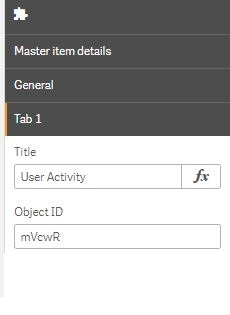
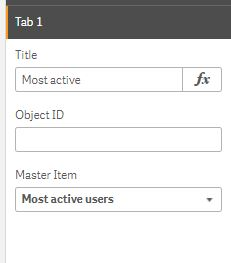
Adding to README.md the information about the new feature

diff --git a/README.md b/README.md
@@ -3,17 +3,23 @@ The Tabbed Container is a Qlik Extension that groups Sense objects in a containe
 
 ![Tabbed-Container-Extension](assets/img/extension_overview.JPG)
 
-It takes a maximum of 5 pairs (title, objectId) as the input that is used to display the visualization. The tab displays the text within the "title" input and the body of the container displays the object with the corresponding ID.
+The extension can display a maximum of 5 tabs, having each tab its own title -which is displayed in the navigation button- and its own visualization.
+In order to add one of your visualizations to a given tab, go into edit mode and select the tab to which you want to add the visualization. Then, you can select a preexisting  visualization using either one of the following methods:
 
-Additionally, the style of the body and the tabs may be easily modified through the options given in the "Appearance" section through the following options:+
+1. Select a visualization from your master items library using the dropdown.
+2. Enter the objectId of any visualization within the app.
+
+In the event that both parameters are given, the extension will take the input from the objectId field.
+
+![Tabbed-Container-Extension](assets/img/extension_options.JPG)
+
+Additionally, the style of the body and the tabs may be easily modified through the options given in the "Appearance" section through the following options:
 
 1. Border color-picker: it sets the color of the border of the body container through a standard Qlik Sense color picker.
 2. Background color-picker: it sets the color of the background of the body container through either a standard Qlik Sense color picker or an input box that takes any valid way of expressing color (RGB, HEX, etc.).
 3. Button color-picker: it sets the color of the border and of the background of the tab that is active.
 4. Additional settings:
     1. Collapse when there is 1 tab: when set to true, the tabs are hidden if there is only one object.
-
-![Tabbed-Container-Extension](assets/img/extension_options.JPG)
 
 In the event that the width assigned to the extension is lower than the space needed to render the tabs, the Tabbed Container will go into stacked mode. This is bound to happen as well in mobile devices.
 
